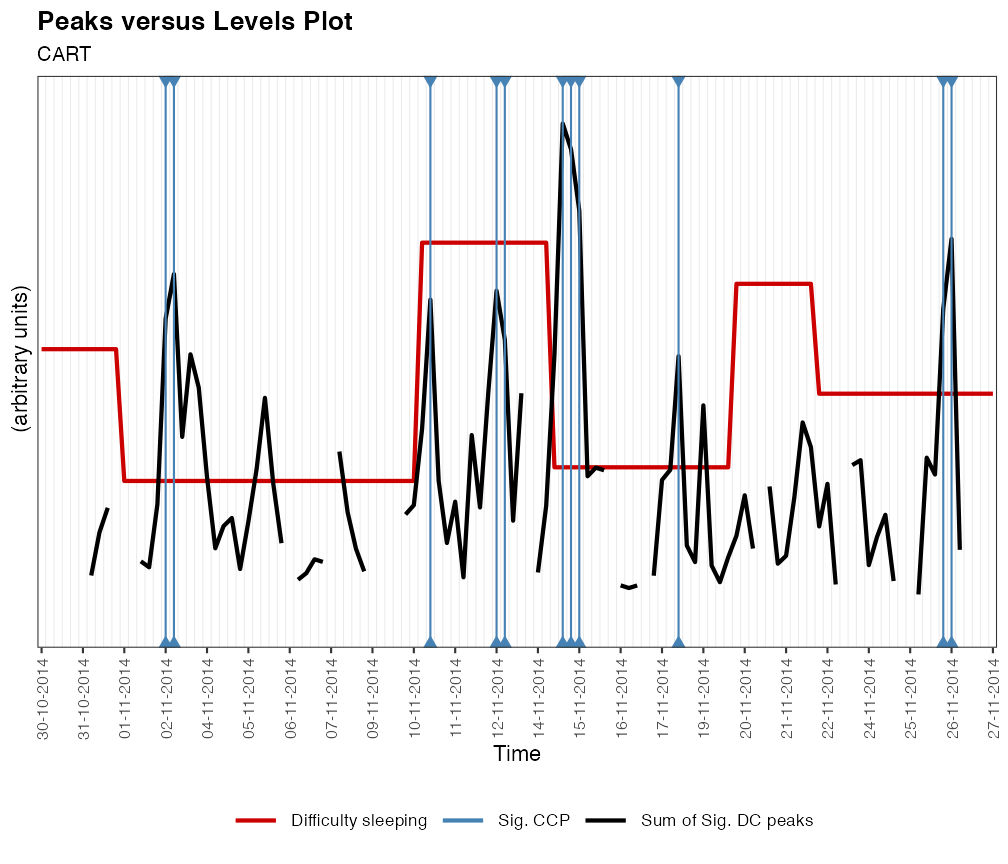
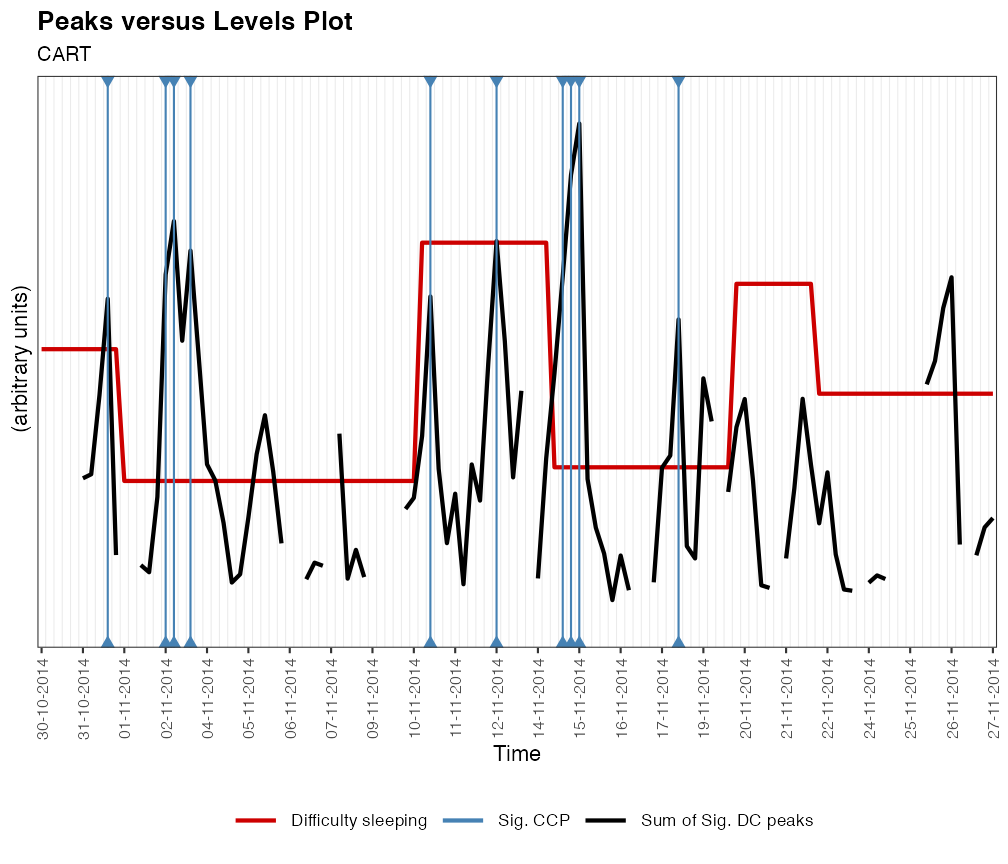
updated

diff --git a/docs/articles/RecurrenceNetworks.html b/docs/articles/RecurrenceNetworks.html
@@ -98,7 +98,7 @@
       <h1 data-toc-skip>Recurrence Networks</h1>
                         <h4 class="author">Fred Hasselman</h4>
             
-            <h4 class="date">2021-01-26</h4>
+            <h4 class="date">2021-02-12</h4>
       
       <small class="dont-index">Source: <a href="https://github.com/FredHasselman/casnet/blob/master/vignettes/RecurrenceNetworks.Rmd"><code>vignettes/RecurrenceNetworks.Rmd</code></a></small>
       <div class="hidden name"><code>RecurrenceNetworks.Rmd</code></div>
@@ -112,7 +112,7 @@
 <a href="#recurrence-networks" class="anchor"></a><em>Recurrence Networks</em>
 </h1>
 <p>A recurrence network is a representation of a recurrence matrix as a graph (a network). The nodes in the network represent time points, and if a value at any point in time will recur at some later point in time, an edge is drawn between the time points.</p>
-<div id="recurrence-networks-1" class="section level2 tabset tabset-fade tabset-pills">
+<div id="recurrence-networks-1" class="section level2">
 <h2 class="hasAnchor">
 <a href="#recurrence-networks-1" class="anchor"></a>Recurrence Networks</h2>
 <p>Recurrence networks are graphs created from a recurrence matrix. This means the nodes of the graph represent time points and the connections between nodes represent a recurrence relation betwen the values observed at those time points. That is, often the matrix represents recurrences in a reconstructed state space, the values are coordinates and therefore we would say the edges of a recurrence network represent a temporal relation between recurring states. The ultimate reference for learning everything about recurrence networks is:</p>
@@ -120,7 +120,7 @@
 <p><a href="https://www.sciencedirect.com/science/article/abs/pii/S037015731830276X?via%3Dihub">Zou, Y., Donner, R. V., Marwan, N., Donges, J. F., &amp; Kurths, J. (2018). Complex network approaches to nonlinear time series analysis. Physics Reports</a></p>
 </blockquote>
 <p>Package <code>casnet</code> has some functions to create recurrence networks, they are similar to the functions used for CRQA: * <code><a href="../reference/rn.html">rn()</a></code> is very similar to <code><a href="../reference/rp.html">rp()</a></code>, it will create a matrix based on embedding parameters. One difference is the option to create a weighted matrix. This is a matrix in which non-recurring values are set to 0, but the recurring values are not replaced by a 1, the distance value is retained and acts as an edge-weight * <code><a href="../reference/rn_plot.html">rn_plot()</a></code> will produce the same as <code><a href="../reference/rp_plot.html">rp_plot()</a></code></p>
-<p>We can turn the recurrence matrix into an adjecency matrix, an <code>igraph</code> object. This means we can use all the <code>igraph</code> functions to calculate network measures.</p>
+<p>We can turn the recurrence matrix into an adjacency matrix, an <code>igraph</code> object. This means we can use all the <code>igraph</code> functions to calculate network measures.</p>
 <div class="sourceCode" id="cb1"><pre class="downlit sourceCode r">
 <code class="sourceCode R"><span class="kw"><a href="https://rdrr.io/r/base/library.html">library</a></span><span class="op">(</span><span class="va"><a href="https://igraph.org">igraph</a></span><span class="op">)</span>
 <span class="co">#library(qgraph)</span>
@@ -348,7 +348,7 @@
 <span id="cb16-18"><a href="#cb16-18"></a><span class="op">&gt;</span><span class="st"> </span>[<span class="dv">1</span>] <span class="ot">TRUE</span></span></code></pre></div>
 </div>
 </div>
-<div id="multiplex-recurrence-networks" class="section level2 tabset tabset-fade tabset-pills">
+<div id="multiplex-recurrence-networks" class="section level2">
 <h2 class="hasAnchor">
 <a href="#multiplex-recurrence-networks" class="anchor"></a>Multiplex Recurrence Networks</h2>
 <p>Consider the three time series to be part of a multi-layer recurrence network. Common properties of the multiplex network are <em>inter-layer mutual information</em> and <em>edge overlap</em> can be calculated using function <code><a href="../reference/mrn.html">casnet::mrn()</a></code>. One problem, the networks have to be all of the same size (same number of nodes, a multivariate time series), but here we have reconstructed the phase space using different embedding parameters… let’s choose one set of parameters for all time series.</p>
@@ -534,7 +534,7 @@ mrn_plot(layers = layers, RNnodes = TRUE,MRNweightedBy = "EdgeOverlap", showEdge
 &gt; $meanValues
 &gt; NULL</code></pre>
 </div>
-<div id="time-varying-multiplex-recurrence-networks" class="section level2 tabset tabset-fade tabset-pills">
+<div id="time-varying-multiplex-recurrence-networks" class="section level2">
 <h2 class="hasAnchor">
 <a href="#time-varying-multiplex-recurrence-networks" class="anchor"></a>Time-varying Multiplex Recurrence Networks</h2>
 <p>The MRN can be calculated in a sliding window, by setting the arguments <code>win</code> and <code>step</code>.</p>

diff --git a/docs/articles/dynamiccomplexity.html b/docs/articles/dynamiccomplexity.html
@@ -98,7 +98,7 @@
       <h1 data-toc-skip>Applied Synergetics: Dynamic Complexity in a Clinical Case Study</h1>
                         <h4 class="author">Fred Hasselman &amp; Merlijn Olthof</h4>
             
-            <h4 class="date">2021-01-26</h4>
+            <h4 class="date">2021-02-12</h4>
       
       <small class="dont-index">Source: <a href="https://github.com/FredHasselman/casnet/blob/master/vignettes/dynamiccomplexity.Rmd"><code>vignettes/dynamiccomplexity.Rmd</code></a></small>
       <div class="hidden name"><code>dynamiccomplexity.Rmd</code></div>
@@ -325,12 +325,11 @@
 <div class="sourceCode" id="cb15"><pre class="downlit sourceCode r">
 <code class="sourceCode R"><span class="co">#  CART</span>
 <span class="va">dateTimesIMP</span><span class="op">[</span><span class="va">ccp.caseIMP</span><span class="op">$</span><span class="va">sig.peaks</span><span class="op">&gt;</span><span class="fl">0</span><span class="op">]</span></code></pre></div>
-<pre><code>&gt;  [1] "2014-11-02 21:27:00 CET" "2014-11-03 09:54:00 CET"
-&gt;  [3] "2014-11-10 21:05:00 CET" "2014-11-12 21:37:00 CET"
-&gt;  [5] "2014-11-13 09:28:00 CET" "2014-11-14 21:15:00 CET"
-&gt;  [7] "2014-11-15 09:18:00 CET" "2014-11-15 13:30:00 CET"
-&gt;  [9] "2014-11-18 13:54:00 CET" "2014-11-26 13:12:00 CET"
-&gt; [11] "2014-11-26 17:30:00 CET"</code></pre>
+<pre><code>&gt;  [1] "2014-11-01 09:01:00 CET" "2014-11-02 21:27:00 CET"
+&gt;  [3] "2014-11-03 09:54:00 CET" "2014-11-03 17:42:00 CET"
+&gt;  [5] "2014-11-10 21:05:00 CET" "2014-11-12 21:37:00 CET"
+&gt;  [7] "2014-11-14 21:15:00 CET" "2014-11-15 09:18:00 CET"
+&gt;  [9] "2014-11-15 13:30:00 CET" "2014-11-18 13:54:00 CET"</code></pre>
 </div>
 </div>
 <div id="plot-state-versus-complexity" class="section level2">

diff --git a/docs/articles/scalingphenomena.html b/docs/articles/scalingphenomena.html
@@ -98,7 +98,7 @@
       <h1 data-toc-skip>Quantifying Scaling Phenomena in Time Series</h1>
                         <h4 class="author">Fred Hasselman</h4>
             
-            <h4 class="date">2021-01-26</h4>
+            <h4 class="date">2021-02-12</h4>
       
       <small class="dont-index">Source: <a href="https://github.com/FredHasselman/casnet/blob/master/vignettes/scalingphenomena.Rmd"><code>vignettes/scalingphenomena.Rmd</code></a></small>
       <div class="hidden name"><code>scalingphenomena.Rmd</code></div>

diff --git a/docs/articles/CRQA.html b/docs/articles/CRQA.html
@@ -98,7 +98,7 @@
       <h1 data-toc-skip>(Cross-) Recurrence Quantification Analysis</h1>
                         <h4 class="author">Fred Hasselman</h4>
             
-            <h4 class="date">2021-01-26</h4>
+            <h4 class="date">2021-02-12</h4>
       
       <small class="dont-index">Source: <a href="https://github.com/FredHasselman/casnet/blob/master/vignettes/CRQA.Rmd"><code>vignettes/CRQA.Rmd</code></a></small>
       <div class="hidden name"><code>CRQA.Rmd</code></div>
